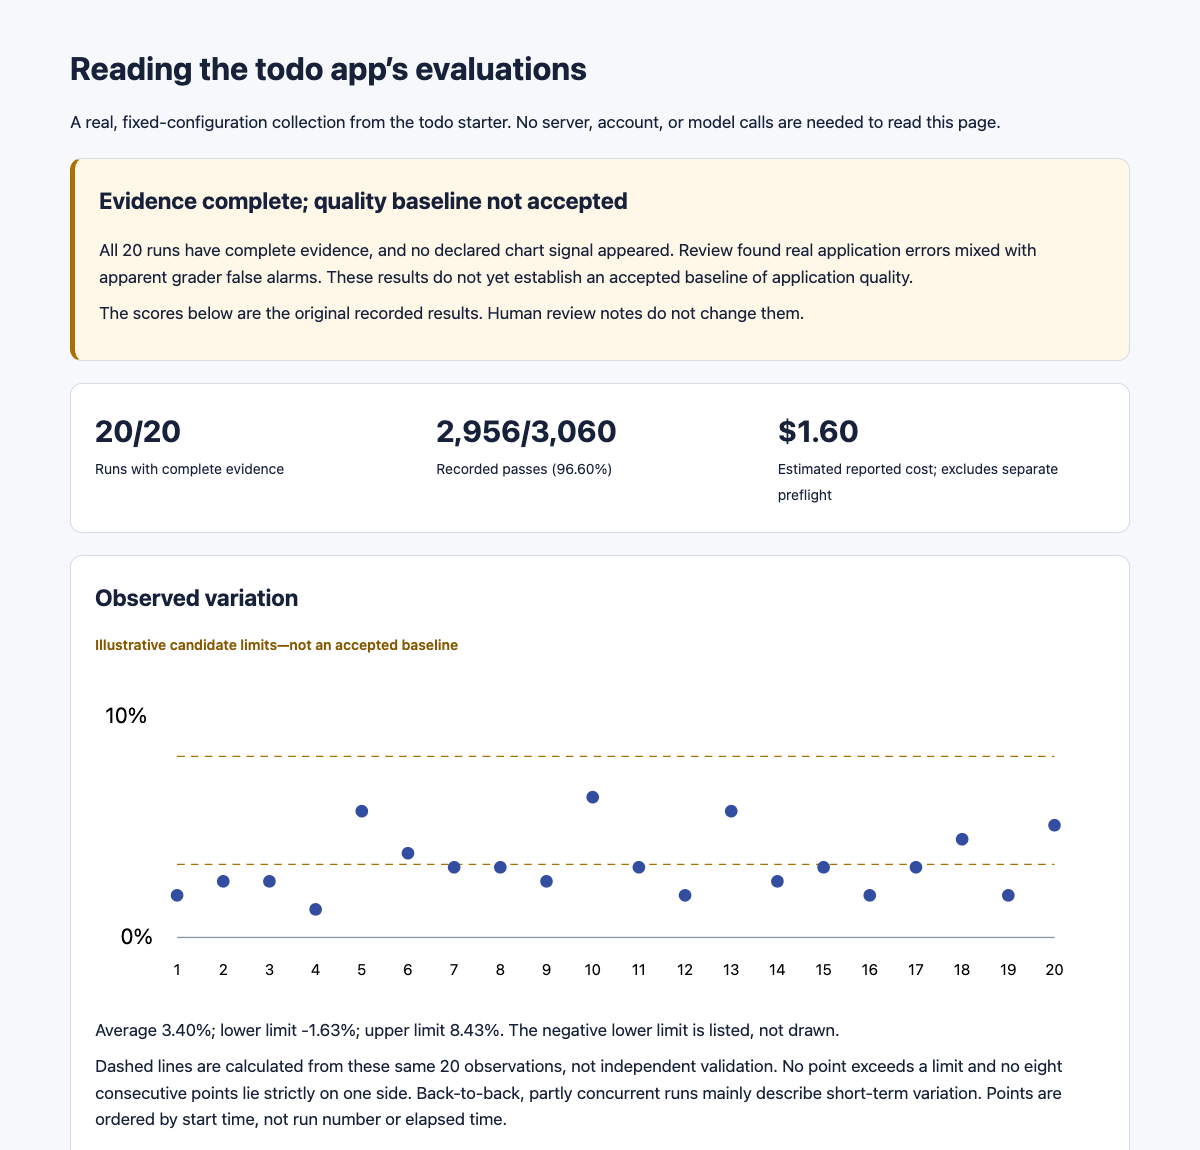
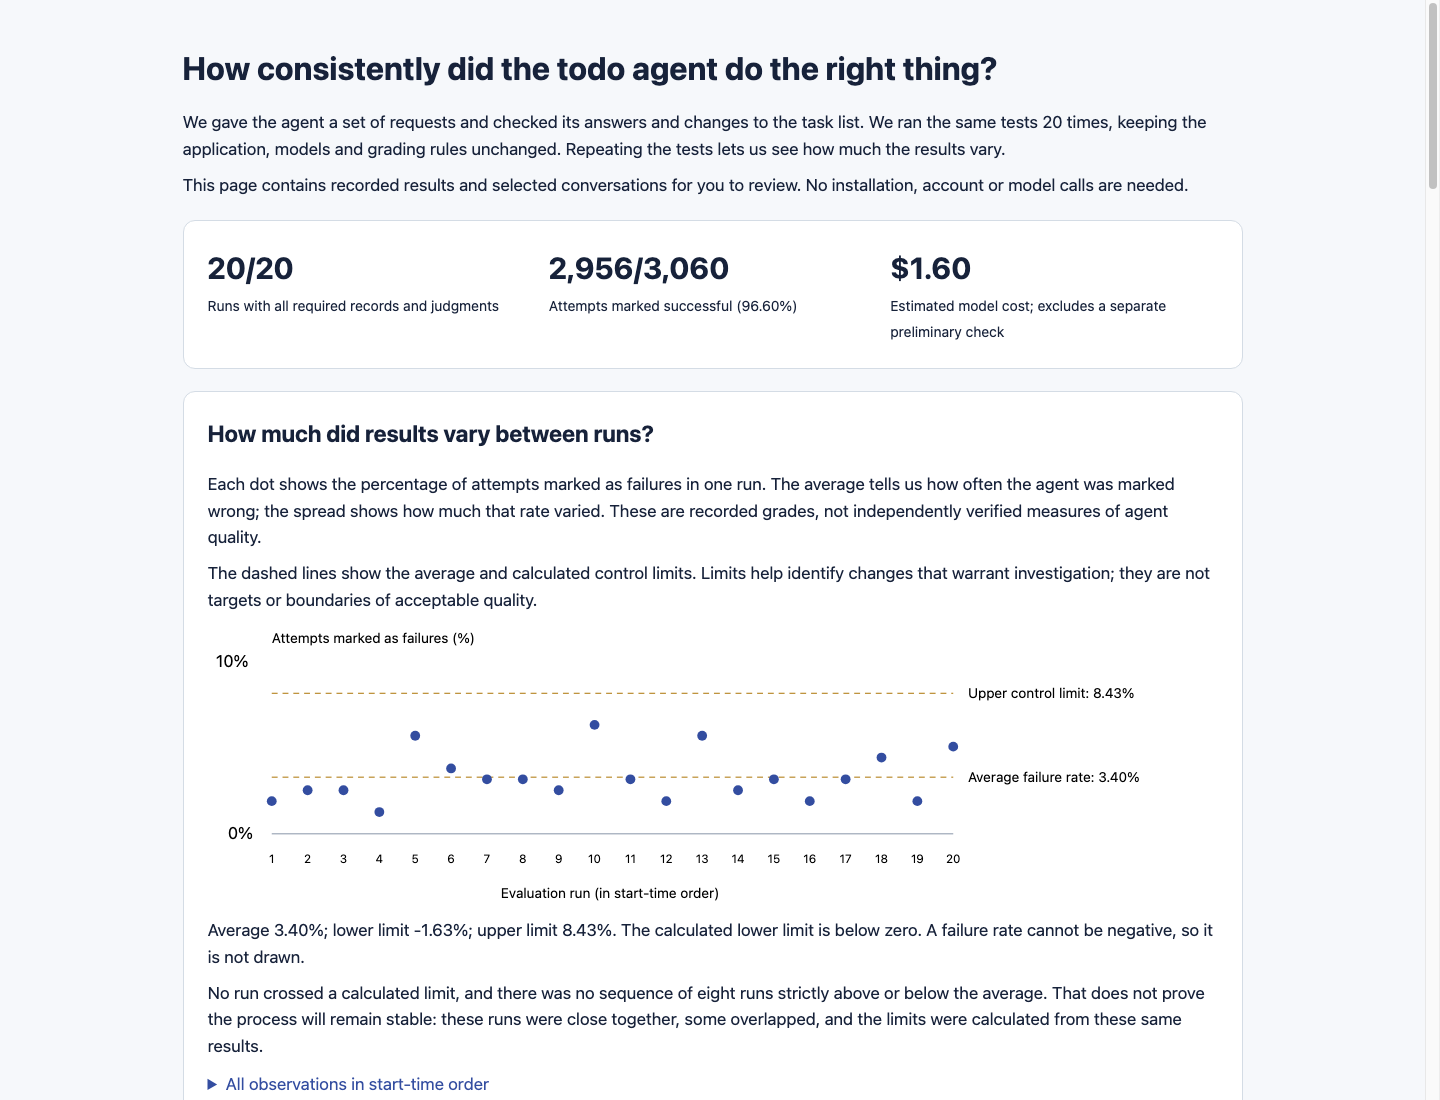
Explain repeated runs and risk-specific acceptance before the report

diff --git a/docs/guides/evaluation-results.md b/docs/guides/evaluation-results.md
@@ -1,17 +1,73 @@
 # Review results and understand variation
 
-[![An evaluation report with evidence completeness, conversations and repeated-run charts.](../images/evaluation-review.png)](https://bobfischer.github.io/beyond-chat-todo/)
+## Why run the same evaluations more than once?
 
-*The public example preserves historical results and grading concerns. Its candidate limits are not an accepted quality baseline.*
+An agent may handle the same request differently on different attempts. A model judge may
+also vary in its assessment. One run shows what happened that time; repeated runs help us
+estimate how often failures occur and how much the measured rate varies.
 
-For a no-setup introduction, open the [worked example](https://bobfischer.github.io/beyond-chat-todo/):
-20 real run summaries, candidate chart limits, and a short human-review queue. It uses synthetic
-cases and makes no network or model calls.
+Keep the cases, starting states, application, model settings and grading rules the same
+when measuring this variation. Reset the application state between attempts. Repeating a
+suite does not make it more representative of users: you still need relevant cases and
+human review of both passing and failing outcomes.
 
-Use the local HTML report first for your own runs. Open a failing case to inspect the request, expected
-outcome, saved state, replies, tool calls, and grading evidence. Optional trace links lead
-to more detail in Langfuse. The repo owns the cases, graders, records and decision rules;
-Langfuse is one example integration, not a required service or a recommendation over alternatives.
+## What does a control chart tell you?
+
+A control chart plots a measure, such as failure rate, across comparable runs. Its center
+line is the average. Its control limits are calculated boundaries used to detect unusual
+variation. A point beyond a limit, or a specified pattern of points, is a reason to
+investigate what changed. Choose the investigation rules before looking at the results.
+
+You care about both the average and the variation: how often does the agent fail, and how
+consistent are the results? Compare like-sized runs or use a calculation that accounts for
+different run sizes. The limits' width depends on the measurement and calculation, not
+only on the quality of the agent.
+
+**Stable does not mean acceptable.** If performance is stable but not good enough, improve
+the process: tools, prompts, models, application code or grading. Do not treat each ordinary
+fluctuation as a separate defect. A chart cannot prove that an agent is safe, or that a
+judge's grades are correct.
+
+## Different failures need different decisions
+
+Define acceptance criteria by consequence, rather than giving the entire agent one
+acceptable failure rate.
+
+| What you measure | How to respond |
+| --- | --- |
+| An action performed without required approval, or another prohibited outcome | Require zero observed failures in the relevant tests. Investigate any occurrence; do not wait for a chart signal. Enforce the boundary in application code. |
+| Whether the agent completes a user job correctly | Set an explicit quality target. Review failures and track the average and variation across comparable runs. |
+| Clarity, brevity or another quality preference | Decide what matters to users and what level is acceptable. Improve it without treating every stylistic difference as a critical defect. |
+
+Zero observed failures is a requirement you can test; it is not proof that the true failure
+probability is zero. Keep targeted tests and safeguards for serious outcomes even when
+repeated evaluations have found none.
+
+One agent may need several charts—for different jobs or different kinds of failure—with
+separate targets and comparison periods. Keep the underlying case groups and attempt counts
+clear. A high overall pass rate must not hide a failure in a critical category. For a rare,
+prohibited event, a visible incident count and an immediate investigation rule may be more
+useful than a control chart.
+
+Langfuse can store separate named scores and show their distributions and trends. Its
+[Score Analytics](https://langfuse.com/docs/evaluation/scores/score-analytics) can also compare
+human and automated grades. Acceptance criteria, release decisions and the control-chart
+rules used here remain in the repository; Langfuse is optional.
+
+## See a recorded example
+
+The [example report](https://bobfischer.github.io/beyond-chat-todo/) contains 20 runs of the
+same suite and selected conversations for human review. It uses synthetic cases and needs
+no installation or model calls. Its overall chart illustrates repeated measurements;
+it is not a complete set of measures for every risk or user job.
+
+[![An evaluation report with conversations and repeated-run charts.](../images/evaluation-review.png)](https://bobfischer.github.io/beyond-chat-todo/)
+
+*Recorded results for review. The calculated limits have not been adopted as the reference for future runs.*
+
+Use the local HTML report for your own runs. Inspect the request, expected outcome, saved
+state, replies, tool calls and grading reasons. Optional trace links lead to more detail in
+Langfuse. The repository owns the cases, graders, records and decision rules.
 
 ## Read one conversation before the chart
 

diff --git a/docs/guide/evaluation.md b/docs/guide/evaluation.md
@@ -70,16 +70,7 @@ Compare verdicts with human-reviewed labels on both acceptable and unacceptable 
 
 ## How to read the results
 
-The sample's [example evaluation report](https://bobfischer.github.io/beyond-chat-todo/)
-shows what this looks like in practice. It records 20 runs of the same evaluation suite
-with the same configuration. You can inspect the results without installing anything
-or calling a model.
-
-Start with a recorded failure: read the request, what the agent did, and why the check
-failed. Then compare the runs. The chart shows how the measured failure rate varied;
-it does not, by itself, establish that the agent is good enough. The report also identifies
-whether all required checks completed and where human review questioned a grader's verdict.
-
+Before reading a report, learn [why we repeat evaluations and what control charts tell us](../guides/evaluation-results.md). Different failures have different consequences: an unauthorized action should not be averaged together with a minor issue in wording when deciding whether to release.
 
 **Distinguish a defect from a change in the measured rate.** Investigate deterministic failures and serious individual incidents directly. For a stable set of stochastic evaluations, small differences between runs can be ordinary variation. Use control-chart signals to investigate changes in that process; a stable rate can still be unacceptable. Define and freeze a baseline after reviewing it, and mark changed models, tools, cases or graders as new comparison periods. See [evidence and variation](../guides/evaluation-results.md) for the chart, limits and practical testing cadence.
 
